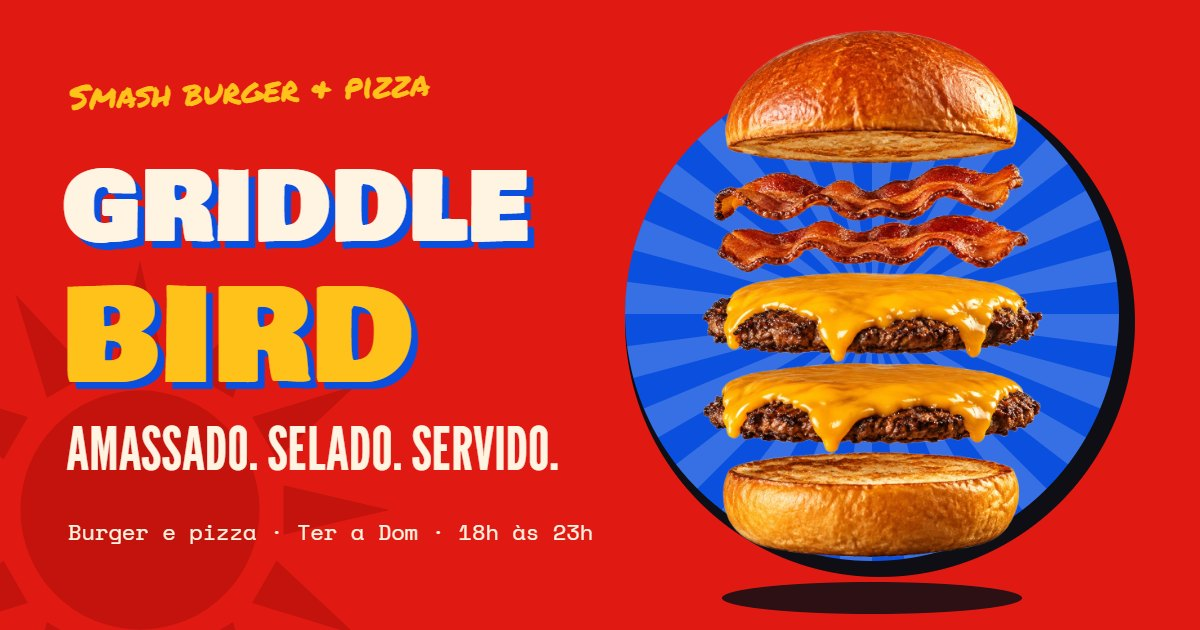
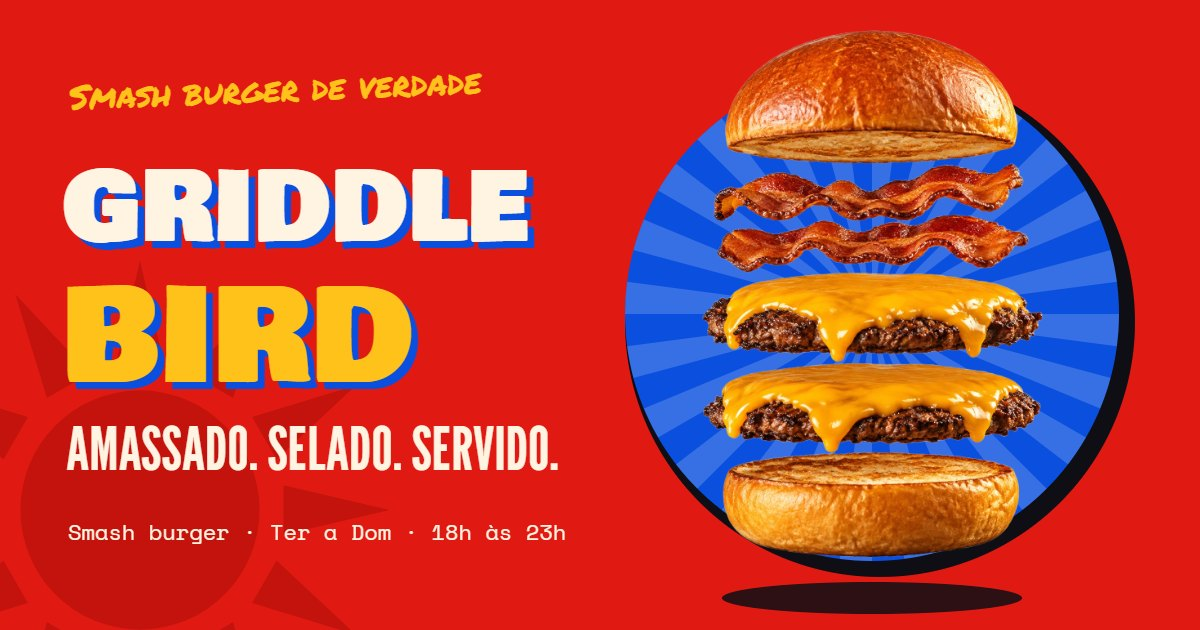
Remove as pizzas do site

Changed region(s): [[0.0617, 0.8143, 0.4933, 0.8746], [0.2467, 0.1206, 0.4008, 0.181]]

diff --git a/index.html b/index.html
@@ -3,13 +3,13 @@
 <head>
 <meta charset="utf-8">
 <meta name="viewport" content="width=device-width, initial-scale=1, viewport-fit=cover">
-<title>Griddlebird · Smash burger e pizza (projeto conceito)</title>
+<title>Griddlebird · Smash burger (projeto conceito)</title>
 <!-- Portfolio concept with a fictional brand: keep it out of search results so nobody mistakes it for a real business -->
 <meta name="robots" content="noindex">
-<meta name="description" content="Projeto conceito, não é um restaurante real. Griddlebird: smash burger de carne fresca amassada na chapa, com borda crocante, e pizza. Site de demonstração com marca e dados fictícios.">
+<meta name="description" content="Projeto conceito, não é um restaurante real. Griddlebird: smash burger de carne fresca amassada na chapa, com borda crocante. Site de demonstração com marca e dados fictícios.">
 <meta property="og:type" content="website">
 <meta property="og:url" content="https://griddlebird.vercel.app/">
-<meta property="og:title" content="Griddlebird · Smash burger e pizza (projeto conceito)">
+<meta property="og:title" content="Griddlebird · Smash burger (projeto conceito)">
 <meta property="og:description" content="Carne fresca amassada na chapa, borda crocante e queijo derretendo. Site de demonstração com marca e dados fictícios.">
 <meta property="og:image" content="https://griddlebird.vercel.app/og.jpg">
 <meta property="og:image:width" content="1200">
@@ -763,7 +763,7 @@ html{ scroll-padding-top:calc(var(--hdr) + var(--rib) + 12px); }
   <svg class="deco deco--sol" aria-hidden="true"><use href="#d-sol"/></svg>
   <div class="wrap hero-grid">
     <div class="hero-copy">
-      <p class="hand">Smash burger &amp; pizza</p>
+      <p class="hand">Smash burger de verdade</p>
       <h1 id="hero-title"><span class="l1">Amassado.</span><span class="l2">Selado.</span><span class="l3">Servido.</span></h1>
       <p class="hero-sub">Carne fresca amassada na chapa quente, borda crocante e queijo derretendo.</p>
       <div class="hero-ctas">
@@ -797,10 +797,10 @@ html{ scroll-padding-top:calc(var(--hdr) + var(--rib) + 12px); }
 </section>
 
 <!-- ============ 3. LETREIRO ============ -->
-<div class="marquee" aria-label="Smash burger, frango crocante, pizza, batata recheada, milkshake e sorvete">
+<div class="marquee" aria-label="Smash burger, frango crocante, batata recheada, milkshake e sorvete">
   <div class="marquee-track" aria-hidden="true">
-    <div class="marquee-group"><span>Smash burger</span><i>★</i><span>Frango crocante</span><i>★</i><span>Pizza</span><i>★</i><span>Batata recheada</span><i>★</i><span>Milkshake</span><i>★</i><span>Sorvete</span><i>★</i></div>
-    <div class="marquee-group"><span>Smash burger</span><i>★</i><span>Frango crocante</span><i>★</i><span>Pizza</span><i>★</i><span>Batata recheada</span><i>★</i><span>Milkshake</span><i>★</i><span>Sorvete</span><i>★</i></div>
+    <div class="marquee-group"><span>Smash burger</span><i>★</i><span>Frango crocante</span><i>★</i><span>Batata recheada</span><i>★</i><span>Milkshake</span><i>★</i><span>Sorvete</span><i>★</i></div>
+    <div class="marquee-group"><span>Smash burger</span><i>★</i><span>Frango crocante</span><i>★</i><span>Batata recheada</span><i>★</i><span>Milkshake</span><i>★</i><span>Sorvete</span><i>★</i></div>
   </div>
 </div>
 
@@ -964,7 +964,6 @@ html{ scroll-padding-top:calc(var(--hdr) + var(--rib) + 12px); }
     <div class="chips" role="group" aria-label="Filtrar cardápio por categoria">
       <button class="chip" type="button" data-cat="todos" aria-pressed="true">Tudo</button>
       <button class="chip" type="button" data-cat="hamburgueres" aria-pressed="false">Hambúrgueres</button>
-      <button class="chip" type="button" data-cat="pizza" aria-pressed="false">Pizza</button>
       <button class="chip" type="button" data-cat="frango" aria-pressed="false">Frango</button>
       <button class="chip" type="button" data-cat="acompanhamentos" aria-pressed="false">Acompanhamentos</button>
       <button class="chip" type="button" data-cat="bebidas" aria-pressed="false">Bebidas</button>
@@ -985,16 +984,6 @@ html{ scroll-padding-top:calc(var(--hdr) + var(--rib) + 12px); }
         </ul>
       </div>
 
-      <div class="menu-group" data-cat="pizza">
-        <div class="group-head"><h3>Pizza</h3><span>05 itens</span></div>
-        <ul class="items">
-          <li class="item"><div class="item-top"><h4>Calabresa</h4><span class="lead"></span><span class="item-price">R$ 44,90</span></div><p>Calabresa fatiada, cebola, muçarela e orégano. Média, 30 cm.</p></li>
-          <li class="item"><div class="item-top"><h4>Margherita</h4><span class="lead"></span><span class="item-price">R$ 44,90</span></div><p>Molho de tomate, muçarela, tomate e manjericão. Média, 30 cm.</p></li>
-          <li class="item"><div class="item-top"><h4>Frango com Requeijão</h4><span class="lead"></span><span class="item-price">R$ 49,90</span></div><p>Frango desfiado temperado e requeijão cremoso. Média, 30 cm.</p></li>
-          <li class="item"><div class="item-top"><h4>Portuguesa</h4><span class="lead"></span><span class="item-price">R$ 52,90</span></div><p>Presunto, ovo, cebola, ervilha, azeitona e muçarela. Média, 30 cm.</p></li>
-          <li class="item"><div class="item-top"><h4>Quatro Queijos</h4><span class="lead"></span><span class="item-price">R$ 54,90</span></div><p>Muçarela, provolone, parmesão e gorgonzola. Média, 30 cm.</p></li>
-        </ul>
-      </div>
 
       <div class="menu-group" data-cat="frango">
         <div class="group-head"><h3>Frango</h3><span>03 itens</span></div>
@@ -1043,7 +1032,7 @@ html{ scroll-padding-top:calc(var(--hdr) + var(--rib) + 12px); }
       <h2 class="big-title" id="hist-title">Nossa história</h2>
       <p class="hand">começou numa chapinha de 60 cm</p>
       <p class="txt">A Griddlebird nasceu numa garagem do bairro, com uma chapa pequena, uma espátula pesada e meia dúzia de vizinhos como primeiros clientes. A ideia era simples: bola de carne fresca, amassada com força na chapa bem quente, até a borda ficar rendada e crocante.</p>
-      <p class="txt">O bairro gostou, a fila chegou até a calçada e a chapa ficou pequena. Hoje a casa é maior, ganhou forno de pizza, mas o jeito continua o mesmo: tudo feito na hora, com poucos ingredientes e a chapa sempre bem quente. Se você passar pela Rua Exemplo depois das seis, vai sentir o cheiro antes de ver a placa.</p>
+      <p class="txt">O bairro gostou, a fila chegou até a calçada e a chapa ficou pequena. Hoje a casa é maior, mas o jeito continua o mesmo: tudo feito na hora, com poucos ingredientes e a chapa sempre bem quente. Se você passar pela Rua Exemplo depois das seis, vai sentir o cheiro antes de ver a placa.</p>
       <div class="hist-stks" aria-hidden="true">
         <span class="stk" style="--r:-5deg">Feito na hora</span>
         <span class="stk stk--red" style="--r:4deg">1 chapa virou 3</span>
@@ -1063,8 +1052,8 @@ html{ scroll-padding-top:calc(var(--hdr) + var(--rib) + 12px); }
 
 <div class="marquee marquee--red" aria-label="Terça a domingo, das 18h às 23h">
   <div class="marquee-track" aria-hidden="true">
-    <div class="marquee-group"><span>Terça a domingo</span><i>★</i><span>18h às 23h</span><i>★</i><span>Smash burger &amp; pizza</span><i>★</i><span>Peça pelo site</span><i>★</i><span>Terça a domingo</span><i>★</i><span>18h às 23h</span><i>★</i><span>Smash burger &amp; pizza</span><i>★</i><span>Peça pelo site</span><i>★</i></div>
-    <div class="marquee-group"><span>Terça a domingo</span><i>★</i><span>18h às 23h</span><i>★</i><span>Smash burger &amp; pizza</span><i>★</i><span>Peça pelo site</span><i>★</i><span>Terça a domingo</span><i>★</i><span>18h às 23h</span><i>★</i><span>Smash burger &amp; pizza</span><i>★</i><span>Peça pelo site</span><i>★</i></div>
+    <div class="marquee-group"><span>Terça a domingo</span><i>★</i><span>18h às 23h</span><i>★</i><span>Smash burger</span><i>★</i><span>Peça pelo site</span><i>★</i><span>Terça a domingo</span><i>★</i><span>18h às 23h</span><i>★</i><span>Smash burger</span><i>★</i><span>Peça pelo site</span><i>★</i></div>
+    <div class="marquee-group"><span>Terça a domingo</span><i>★</i><span>18h às 23h</span><i>★</i><span>Smash burger</span><i>★</i><span>Peça pelo site</span><i>★</i><span>Terça a domingo</span><i>★</i><span>18h às 23h</span><i>★</i><span>Smash burger</span><i>★</i><span>Peça pelo site</span><i>★</i></div>
   </div>
 </div>
 
@@ -1110,7 +1099,7 @@ html{ scroll-padding-top:calc(var(--hdr) + var(--rib) + 12px); }
 
     <div class="foot-bottom">
       <p><strong>Projeto conceito: marca, cardápio, preços e contatos fictícios. Não é um restaurante real.</strong></p>
-      <p>© <span id="ano">2026</span> Griddlebird · Smash burger &amp; pizza</p>
+      <p>© <span id="ano">2026</span> Griddlebird · Smash burger</p>
     </div>
   </div>
 </footer>
@@ -1202,20 +1191,6 @@ html{ scroll-padding-top:calc(var(--hdr) + var(--rib) + 12px); }
       <label><input type="checkbox" value="Sem picles"><span>Sem picles</span></label>
       <label><input type="checkbox" value="Sem molho"><span>Sem molho</span></label>
       <label><input type="checkbox" value="Sem pão (na alface)"><span>Na alface, sem pão</span></label>
-    </fieldset>
-    <fieldset class="entrega opcoes-grupo" data-tipo="pizza">
-      <legend>Tamanho</legend>
-      <label><input type="radio" name="tamanho" value="Broto 25 cm" data-centavos="-1000"><span>Broto 25 cm<small>−R$ 10,00</small></span></label>
-      <label><input type="radio" name="tamanho" value="Média 30 cm" data-padrao><span>Média 30 cm<small>preço base</small></span></label>
-      <label><input type="radio" name="tamanho" value="Grande 35 cm" data-centavos="1200"><span>Grande 35 cm<small>+R$ 12,00</small></span></label>
-      <label><input type="radio" name="tamanho" value="Família 40 cm" data-centavos="2000"><span>Família 40 cm<small>+R$ 20,00</small></span></label>
-    </fieldset>
-    <fieldset class="entrega opcoes-grupo" data-tipo="pizza">
-      <legend>Borda e coberturas</legend>
-      <label><input type="checkbox" value="Borda recheada" data-centavos="900"><span>Borda recheada<small>+R$ 9,00</small></span></label>
-      <label><input type="checkbox" value="Massa fina"><span>Massa fina<small>sem custo</small></span></label>
-      <label><input type="checkbox" value="Muçarela extra" data-centavos="600"><span>Muçarela extra<small>+R$ 6,00</small></span></label>
-      <label><input type="checkbox" value="Champignon" data-centavos="500"><span>Champignon<small>+R$ 5,00</small></span></label>
     </fieldset>
     <button class="btn btn--blue opcoes-add" type="button" data-opcoes-add>Adicionar · <span data-opcoes-total></span></button>
   </div>
@@ -1365,7 +1340,7 @@ html{ scroll-padding-top:calc(var(--hdr) + var(--rib) + 12px); }
       const rotulo = li.querySelector('.sacola-nome');
       rotulo.textContent = nome;
       rotulo.append(Object.assign(document.createElement('small'), { textContent: [dolares(i.centavos), ...i.extras].join(' · ') }));
-      if (burgers.has(nome) || pizzas.has(nome)) {
+      if (burgers.has(nome)) {
         const editar = Object.assign(document.createElement('button'), { type: 'button', className: 'sacola-editar', textContent: 'Personalizar' });
         editar.setAttribute('aria-label', 'Personalizar ' + nome);
         rotulo.append(editar);
@@ -1393,7 +1368,6 @@ html{ scroll-padding-top:calc(var(--hdr) + var(--rib) + 12px); }
   const dlgOpcoes = $('#opcoes'), opcoes = $$('input', dlgOpcoes), opcoesTotal = $('[data-opcoes-total]');
   const burgers = new Set($$('.menu-group[data-cat="hamburgueres"] h4').map(h => h.firstChild.textContent.trim()));
   let escolha = null, editando = null;
-  const pizzas = new Set($$('.menu-group[data-cat="pizza"] h4').map(h => h.firstChild.textContent.trim()));
   const marcadas = () => opcoes.filter(o => o.checked && !o.closest('[data-tipo]').hidden);
   const precoEscolha = () => escolha.centavos + marcadas().reduce((s, o) => s + +(o.dataset.centavos || 0), 0);
   function escolher(nome, preco) {
@@ -1402,10 +1376,7 @@ html{ scroll-padding-top:calc(var(--hdr) + var(--rib) + 12px); }
   }
   function abrirOpcoes(nome, centavos, extras = []) {
     escolha = { nome, centavos };
-    const tipo = pizzas.has(nome) ? 'pizza' : 'burger';
-    $$('[data-tipo]', dlgOpcoes).forEach(g => { g.hidden = g.dataset.tipo !== tipo; });
     opcoes.forEach(o => { o.checked = !o.closest('[data-tipo]').hidden && extras.includes(o.value); });
-    if (tipo === 'pizza' && !opcoes.some(o => o.name === 'tamanho' && o.checked)) $('[data-padrao]', dlgOpcoes).checked = true;
     $('#opcoes-title').textContent = nome;
     opcoesTotal.textContent = dolares(precoEscolha());
     dlgOpcoes.showModal();
@@ -1432,7 +1403,7 @@ html{ scroll-padding-top:calc(var(--hdr) + var(--rib) + 12px); }
   sacolaLista.addEventListener('click', e => {
     if (e.target.closest('.sacola-editar')) {
       const chave = e.target.closest('li').dataset.chave, i = sacola.get(chave);
-      const extraPago = opcoes.filter(o => i.extras.includes(o.value) && o.closest('[data-tipo]').dataset.tipo === (pizzas.has(i.nome) ? 'pizza' : 'burger')).reduce((s, o) => s + +(o.dataset.centavos || 0), 0);
+      const extraPago = opcoes.filter(o => i.extras.includes(o.value)).reduce((s, o) => s + +(o.dataset.centavos || 0), 0);
       editando = chave;
       abrirOpcoes(i.nome, i.centavos - extraPago, i.extras);
       return;
